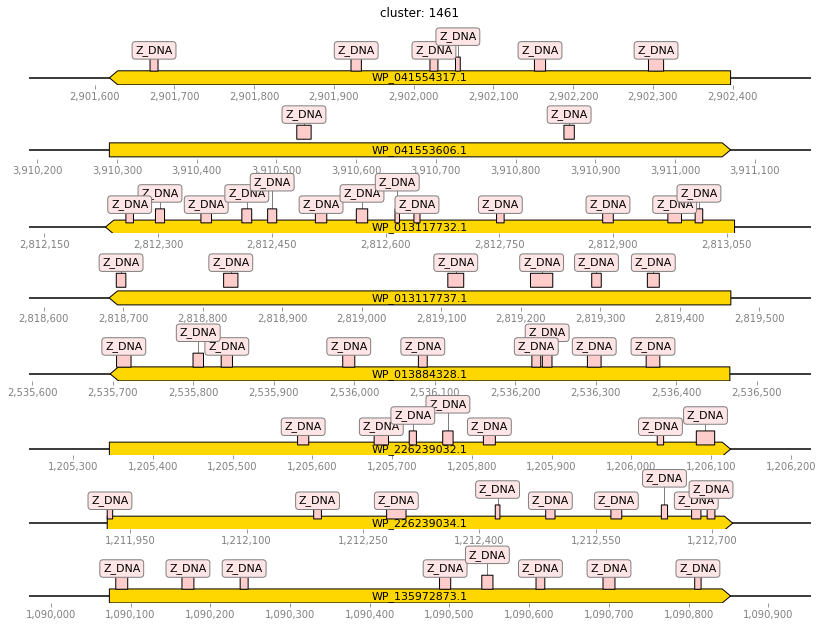
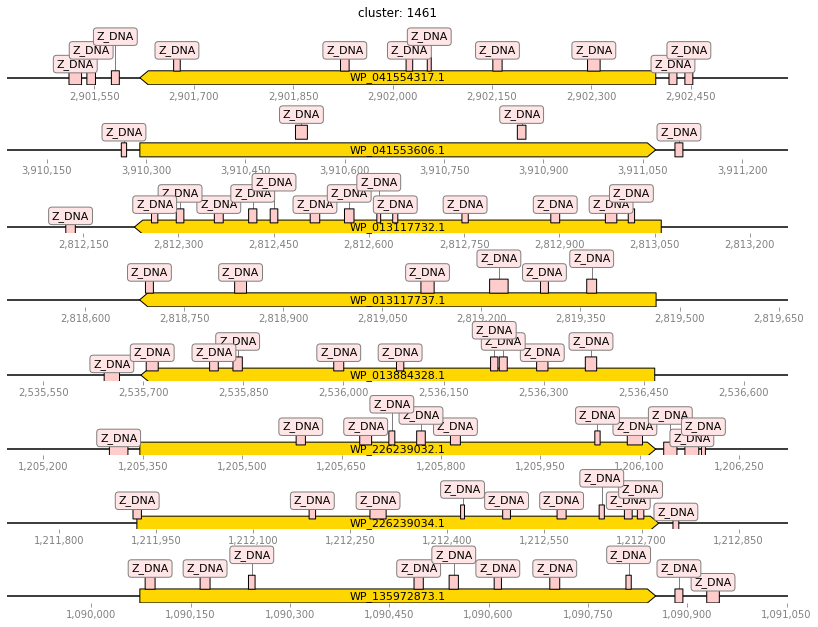
udated zdna respepc gene imgs

diff --git a/README.md b/README.md
@@ -23,13 +23,13 @@ https://colab.research.google.com/drive/1rkh9LTjdhWXzfEFQ9a0T_ZY32Cw93OEA?usp=sh
 
 Были выбраны следующие из них:
 
-| Кластер | Кол. генов | Функция | расположение Z-DNA | ср. знач. Z-DNA score |
+| Кластер | Кол. генов | Функция | ср. знач. Z-DNA score |
 |:-----------:|:------------|:----------------|:------------------|:-------------- |
-| 1990 | 7 | thioredoxin-disulfide reductase activity | В начале и второй половине гена | 11590 |
-| 1461 | 8 | ATP-binding | Преимущественно в конце, немного в начале | 8003 |
-| 1843 | 7 | gluconokinase, Carbohydrate transport and metabolism | В основном в середине гена | 9943 |
-| 127 | 7 | ABC transporter ATP-binding protein | В начале и конце гена | 11321 |
-| 2143 | 7 | ABC transporter ATP-binding protein | В основном в конце и немного в начале | 23660 |
+| 1990 | 7 | thioredoxin-disulfide reductase activity | 10331 |
+| 1461 | 8 | ATP-binding | 8005 |
+| 1843 | 7 | gluconokinase, Carbohydrate transport and metabolism | 8831 |
+| 127 | 7 | ABC transporter ATP-binding protein | 10295 |
+| 2143 | 7 | ABC transporter ATP-binding protein | 20922 |
 
 Выравнивание производилось с помощью [MUSCLE 3.8](https://www.ebi.ac.uk/Tools/msa/muscle/. "MUSCLE 3.8"):
 
